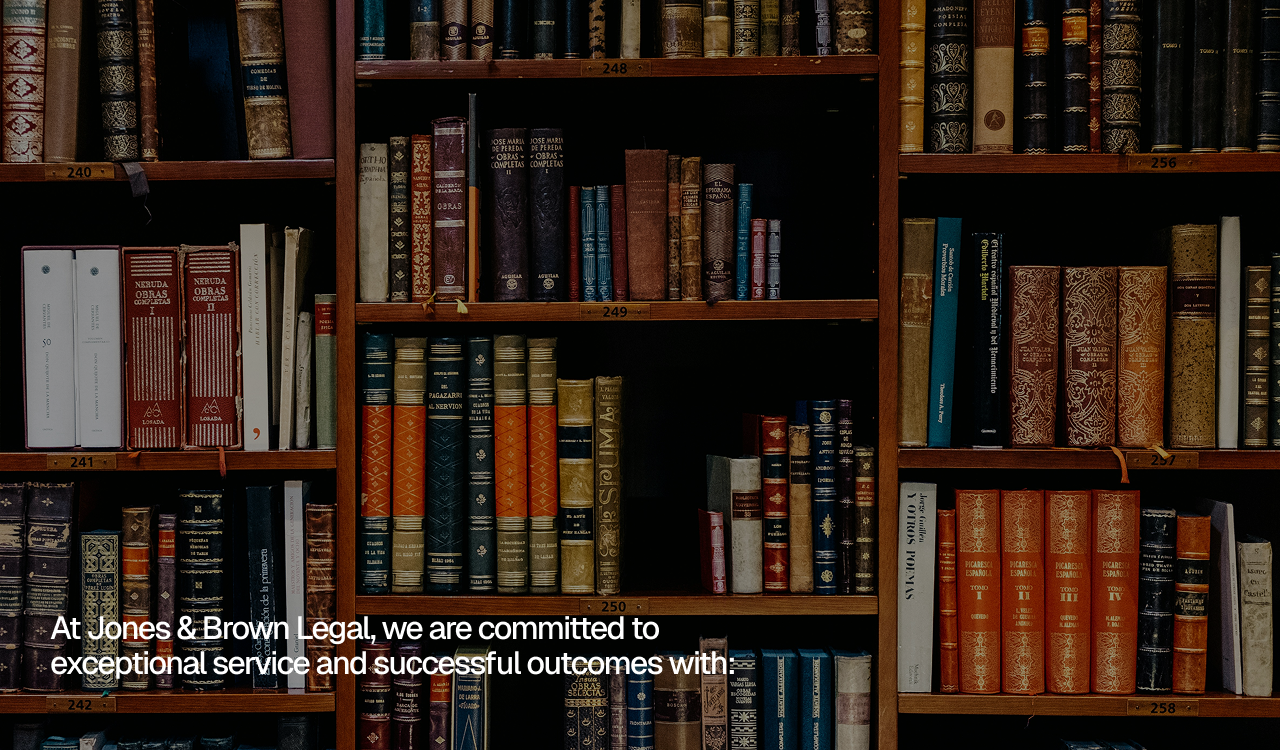
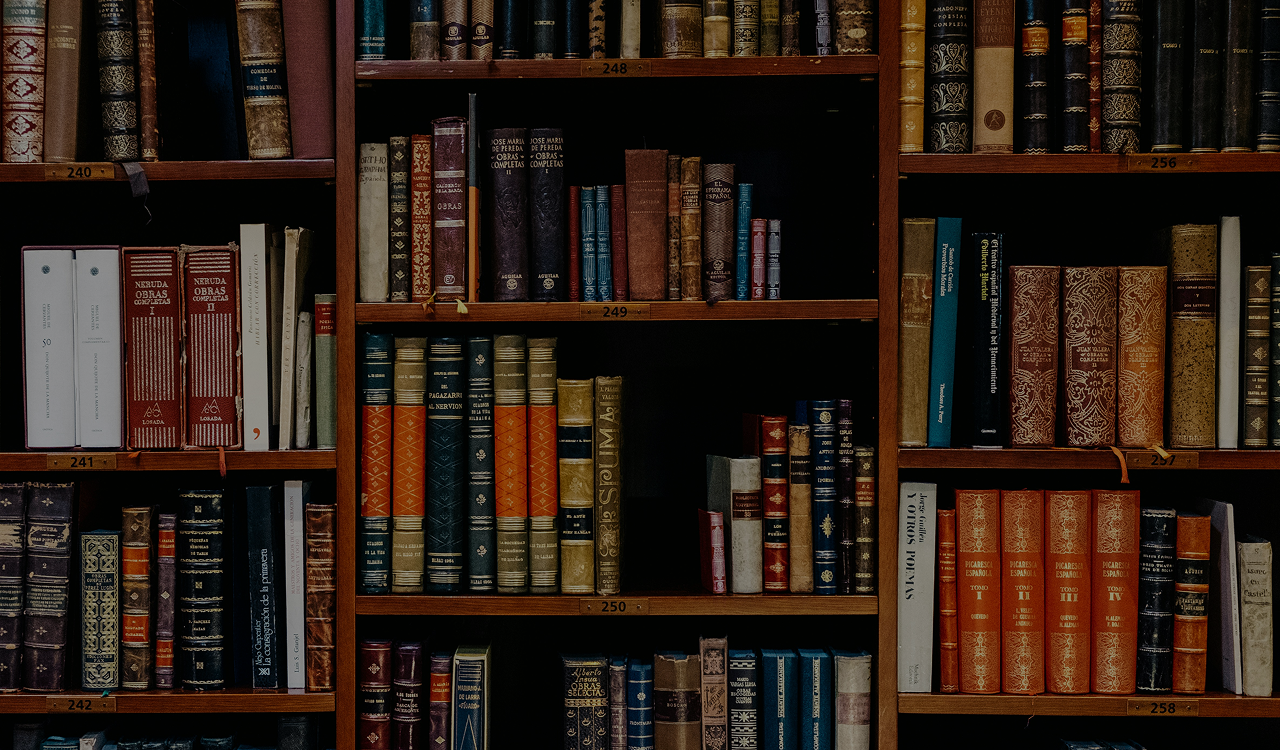
service page done

Changed region(s): [[0.0312, 0.828, 0.5625, 0.92]]

diff --git a/component/service/navigate.tsx b/component/service/navigate.tsx
@@ -1,0 +1,95 @@
+import Image from "next/image";
+
+const SERVICES = [
+  {
+    id: 1,
+    title: "Business and Corporate Law",
+    desc: `Business formation (LLCs, corporations, partnerships)
+           Contract drafting and review
+           Mergers and acquisitions
+           Intellectual property protection
+           Employment law and workplace policies
+           Corporate governance
+           Shareholder and partnership disputes`,
+  },
+  {
+    id: 2,
+    title: "Litigation and Dispute Resolution",
+    desc: `Civil litigation
+           Commercial litigation
+           Arbitration and mediation
+           Class action lawsuits
+           Personal injury claims
+           Product liability cases`,
+  },
+  {
+    id: 3,
+    title: "Family Law",
+    desc: `Divorce and separation
+           Child custody and support
+           Prenuptial and postnuptial agreements
+           Adoption and surrogacy
+           Domestic violence protection`,
+  },
+  {
+    id: 4,
+    title: "Criminal Defense",
+    desc: `DUI and traffic offenses
+          White-collar crime defense
+          Drug charges
+          Assault and battery cases
+          Expungements and record sealing`,
+  },
+  {
+    id: 5,
+    title: "Real Estate Law",
+    desc: `Property transactions (buying, selling, leasing)
+          Landlord-tenant disputes
+          Zoning and land use
+          Construction law
+          Real estate development`,
+  },
+  {
+    id: 6,
+    title: "Immigration Law",
+    desc: `Visa applications
+          Green cards and citizenship
+          Deportation defense
+          Employment-based immigration`,
+  },
+];
+
+export function Navigate() {
+  return (
+    <>
+      <div className="bg-[#0D1F08] py-20">
+        <div className="max-w-300 w-full mx-auto space-y-15 ">
+          <div className="text-white text-3xl max-w-130 w-full">
+            Navigating Complex Legal Landscapes? We Can Help.
+          </div>
+          <div className="border-b border-white space-y-10 pb-15">
+            {SERVICES.map((item) => (
+              <div
+                key={item.id}
+                className="flex items-start justify-between gap-3 border-t border-white pt-5 sm:pr-20"
+              >
+                <p className="text-xl">{item.title}</p>
+                <p className="max-w-80 w-full">{item.desc}</p>
+              </div>
+            ))}
+          </div>
+        </div>
+      </div>
+
+      <div className="relative w-full h-[80vh]">
+        <Image
+          src="/service/image.png"
+          alt="divider Image"
+          fill
+          priority
+          className="w-full h-screen object-cover"
+        />
+      </div>
+    </>
+  );
+}

diff --git a/component/service/count.tsx b/component/service/count.tsx
@@ -1,0 +1,20 @@
+export function Count() {
+  return (
+    <div className="bg-white py-25">
+      <div className="max-w-300 w-full mx-auto flex items-center justify-between ">
+        <div className="space-y-10 text-center">
+          <p className="text-9xl text-black">30+</p>
+          <p className="text-2xl text-black">years of experience</p>
+        </div>
+        <div className="space-y-10 text-center">
+          <p className="text-9xl text-black">98%</p>
+          <p className="text-2xl text-black">success rate in court</p>
+        </div>
+        <div className="space-y-10 text-center">
+          <p className="text-9xl text-black">120+</p>
+          <p className="text-2xl text-black">attorneys at hand</p>
+        </div>
+      </div>
+    </div>
+  );
+}

diff --git a/component/service/banner.tsx b/component/service/banner.tsx
@@ -1,0 +1,21 @@
+export function Banner() {
+  return (
+    <div className="relative min-h-[91vh] flex items-end pb-10">
+      {/* Background */}
+      <div
+        className="absolute inset-0 bg-cover bg-center bg-no-repeat"
+        style={{
+          backgroundImage: "url('/service/service_hero.png')",
+        }}
+      />
+
+      {/* content */}
+      <div className="max-w-350 w-full mx-auto relative z-10 h-full flex items-end justify-start">
+        <p className="text-3xl max-w-160 w-full">
+          At Jones & Brown Legal, we are committed to exceptional service and
+          successful outcomes with:
+        </p>
+      </div>
+    </div>
+  );
+}

diff --git a/component/index.ts b/component/index.ts
@@ -7,3 +7,8 @@ export { Banner as HomeBanner } from "./main/banner";
 export { Welcome } from "./main/welcome";
 export { Offer } from "./main/offer";
 export { Testimonal } from "./main/testimonal";
+
+// service page
+export { Banner as ServiceBanner } from "./service/banner";
+export { Count } from "./service/count";
+export { Navigate } from "./service/navigate";

diff --git a/app/service/page.tsx b/app/service/page.tsx
@@ -1,0 +1,12 @@
+import { Count, Footer, Navigate, ServiceBanner } from "@/component";
+
+export default function Page() {
+  return (
+    <div>
+      <ServiceBanner />
+      <Count />
+      <Navigate />
+      <Footer />
+    </div>
+  );
+}
